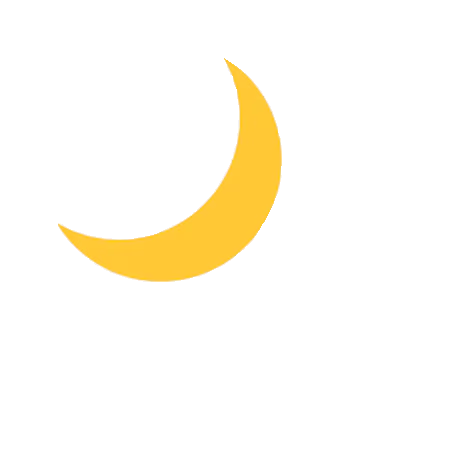
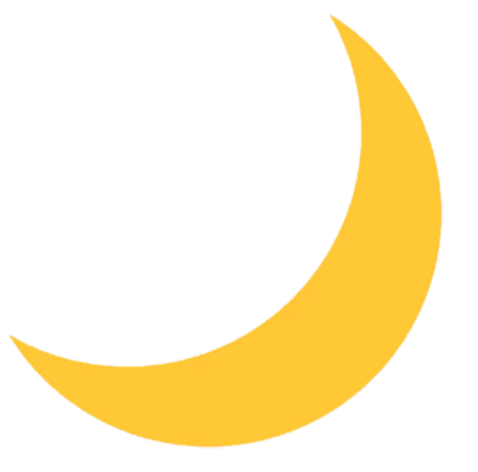
sun moon have transparant background, Main has context background color and text color

diff --git a/react-cv/src/components/Main.js b/react-cv/src/components/Main.js
@@ -2,23 +2,22 @@ import './Main.css'
 import {  useContext } from 'react';
 import DisplayContext from '../context/DisplayContext';
 import profile from '../assets/Profile.jpeg'
-import sun from "../assets/sun.png"
+import sun from "../assets/Sun transparent.png"
 import moon from "../assets/Moon.png"
 import NavBar from "./NavBar";
 
 function Main({mainRef, infoRef, projectsRef, changeAbout, changeWork}) {
-    const {isLight, setIsLight} = useContext(DisplayContext)
+    const {isLight, setIsLight, textColor, bgColor} = useContext(DisplayContext)
     const changeIsLight = () => {
         setIsLight(!isLight)
     }
 
     return (
         <>
-        <div className='background'></div>
-        <div ref={mainRef} className="main">
+        <div ref={mainRef} className="main" style={{backgroundColor: bgColor}}>
             <NavBar infoRef={infoRef} projectsRef={projectsRef} changeIsLight={changeIsLight} changeAbout={changeAbout} changeWork={changeWork}/>
     
-            <div className="main-flex">
+            <div className="main-flex" style={{color: textColor}}>
                 <div className='introduction'>
                     <hr className='horizontal-line'/>
                     <h3>Hey, I'm</h3>
@@ -26,7 +25,7 @@ function Main({mainRef, infoRef, projectsRef, changeAbout, changeWork}) {
                     <h4>Recent college graduate looking to start my career in web development. Graduated from the University of Georgia and currently residing in Atlanta, GA. Most proficient in React but love learning new coding languages.</h4>
                 </div>
 
-                <div className='vert-flex'>
+                <div className='vert-flex' style={{color: textColor}}>
                     <img src={profile} alt="Headshot" className="headshot"/>
                     <div className='socials'>
                         <hr className='social-hr'/>

diff --git a/react-cv/src/components/Main.css b/react-cv/src/components/Main.css
@@ -1,8 +1,10 @@
 .main {
+    position: relative;
     height: 100vh;
     margin: auto;
     text-align: left;
     background-color: transparent;
+    transition: 2s;
 }
 
 .main-flex {
@@ -10,6 +12,7 @@
     gap: 150px;
     margin: 8% auto 0 auto;
     width: 70%;
+    transition: 2s;
 }
 
 .horizontal-line {
@@ -39,16 +42,6 @@
     margin-left: 5%;
 }
 
-.background {
-    position: absolute;
-    /*background-image: url(https://images6.alphacoders.com/132/1327974.png);*/
-    image-rendering: -webkit-optimize-contrast;
-    background-size: cover;
-    height: 100vh;
-    z-index: -1;
-    transition-duration: 3s;
-}
-
 .headshot {
     height: 500px;
     border-radius: 20%;
@@ -71,6 +64,7 @@
     flex-direction: column;
     margin-top: -50px;
     gap: 10px;
+    transition: 2s;
 }
 
 .socials-flex {
@@ -90,7 +84,7 @@
     top: 70%;
     left: 35%;
     transition: 2s;
-    z-index: -1;
+    z-index: 1;
 }
 
 .sun-down {
@@ -98,21 +92,23 @@
     top: 120%;
     left: 35%;
     transition: 2s;
-    z-index: -1;
+    z-index: 1;
 }
 
 .moon {
     position: absolute;
-    top: 60%;
+    top: 70%;
     left: 10%;
     transition: 2s;
-    z-index: -1;
+    z-index: 1;
+    width: 15%;
 }
 
 .moon-down {
     position: absolute;
-    top: 105%;
+    top: 120%;
     left: 10%;
     transition: 2s;
-    z-index: -1;
+    z-index: 1;
+    width: 15%;
 }

diff --git a/react-cv/src/App.js b/react-cv/src/App.js
@@ -10,7 +10,7 @@ function App() {
   const [backColor, setBackColor] = useState('cornflowerblue')
   const changeBackColor = () => {
     if (backColor === 'cornflowerblue') {
-      setBackColor('darkblue')
+      setBackColor('black')
     } else {
       setBackColor('cornflowerblue')
     }
@@ -24,6 +24,16 @@ function App() {
       setTextColor('black')
     }
   }
+
+  const [bgColor, setBGColor] = useState('white')
+  const changeBGColor = () => {
+    if (bgColor === 'white') {
+      setBGColor('dimgray')
+    } else {
+      setBGColor('white')
+    }
+  }
+
 
   const mainRef = useRef(null)
   const projectsRef = useRef(null)
@@ -42,7 +52,7 @@ function App() {
   }
 
   return (
-    <DisplayContext.Provider value={{isLight, setIsLight, backColor, changeBackColor, textColor, changeTextColor}}>
+    <DisplayContext.Provider value={{isLight, setIsLight, backColor, changeBackColor, textColor, changeTextColor, bgColor, changeBGColor}}>
       <div className="App">
           <button className='top-button' onClick={scrollTop}>^</button>
           <Main mainRef={mainRef} infoRef={infoRef} projectsRef={projectsRef} changeAbout={changeAbout} changeWork={changeWork}/>

diff --git a/react-cv/src/components/NavBar.js b/react-cv/src/components/NavBar.js
@@ -3,7 +3,7 @@ import { useContext } from 'react'
 import DisplayContext from '../context/DisplayContext'
 
 function NavBar({infoRef, projectsRef, changeIsLight, changeAbout, changeWork}) {
-    const {backColor, changeBackColor, textColor, changeTextColor} = useContext(DisplayContext)
+    const {backColor, changeBackColor, textColor, changeTextColor, changeBGColor} = useContext(DisplayContext)
 
 
     const scrollProjects = () => {
@@ -24,6 +24,7 @@ function NavBar({infoRef, projectsRef, changeIsLight, changeAbout, changeWork}) 
         changeIsLight()
         changeBackColor()
         changeTextColor()
+        changeBGColor()
     }
 
     return (

diff --git a/react-cv/src/components/InfoDisplay.css b/react-cv/src/components/InfoDisplay.css
@@ -1,5 +1,7 @@
 .display-background {
     background-color: white;
+    position: relative;
+    z-index: 2;
 }
 
 .display-container {
